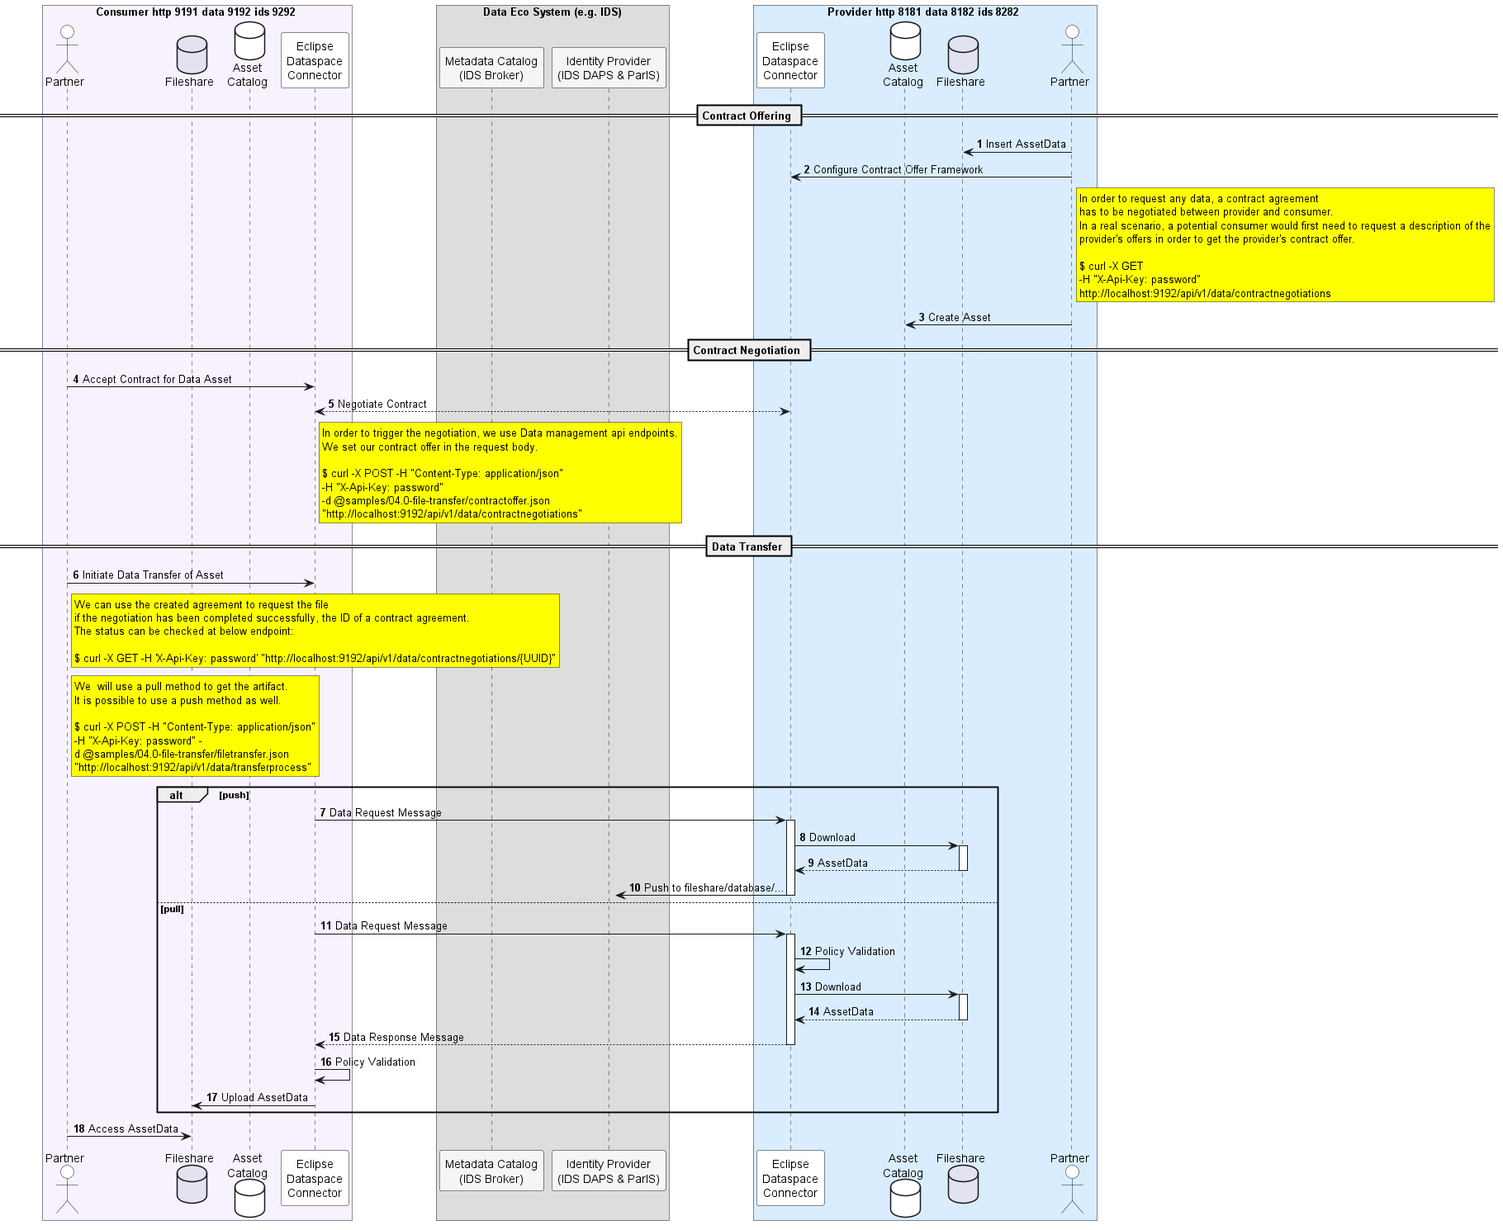
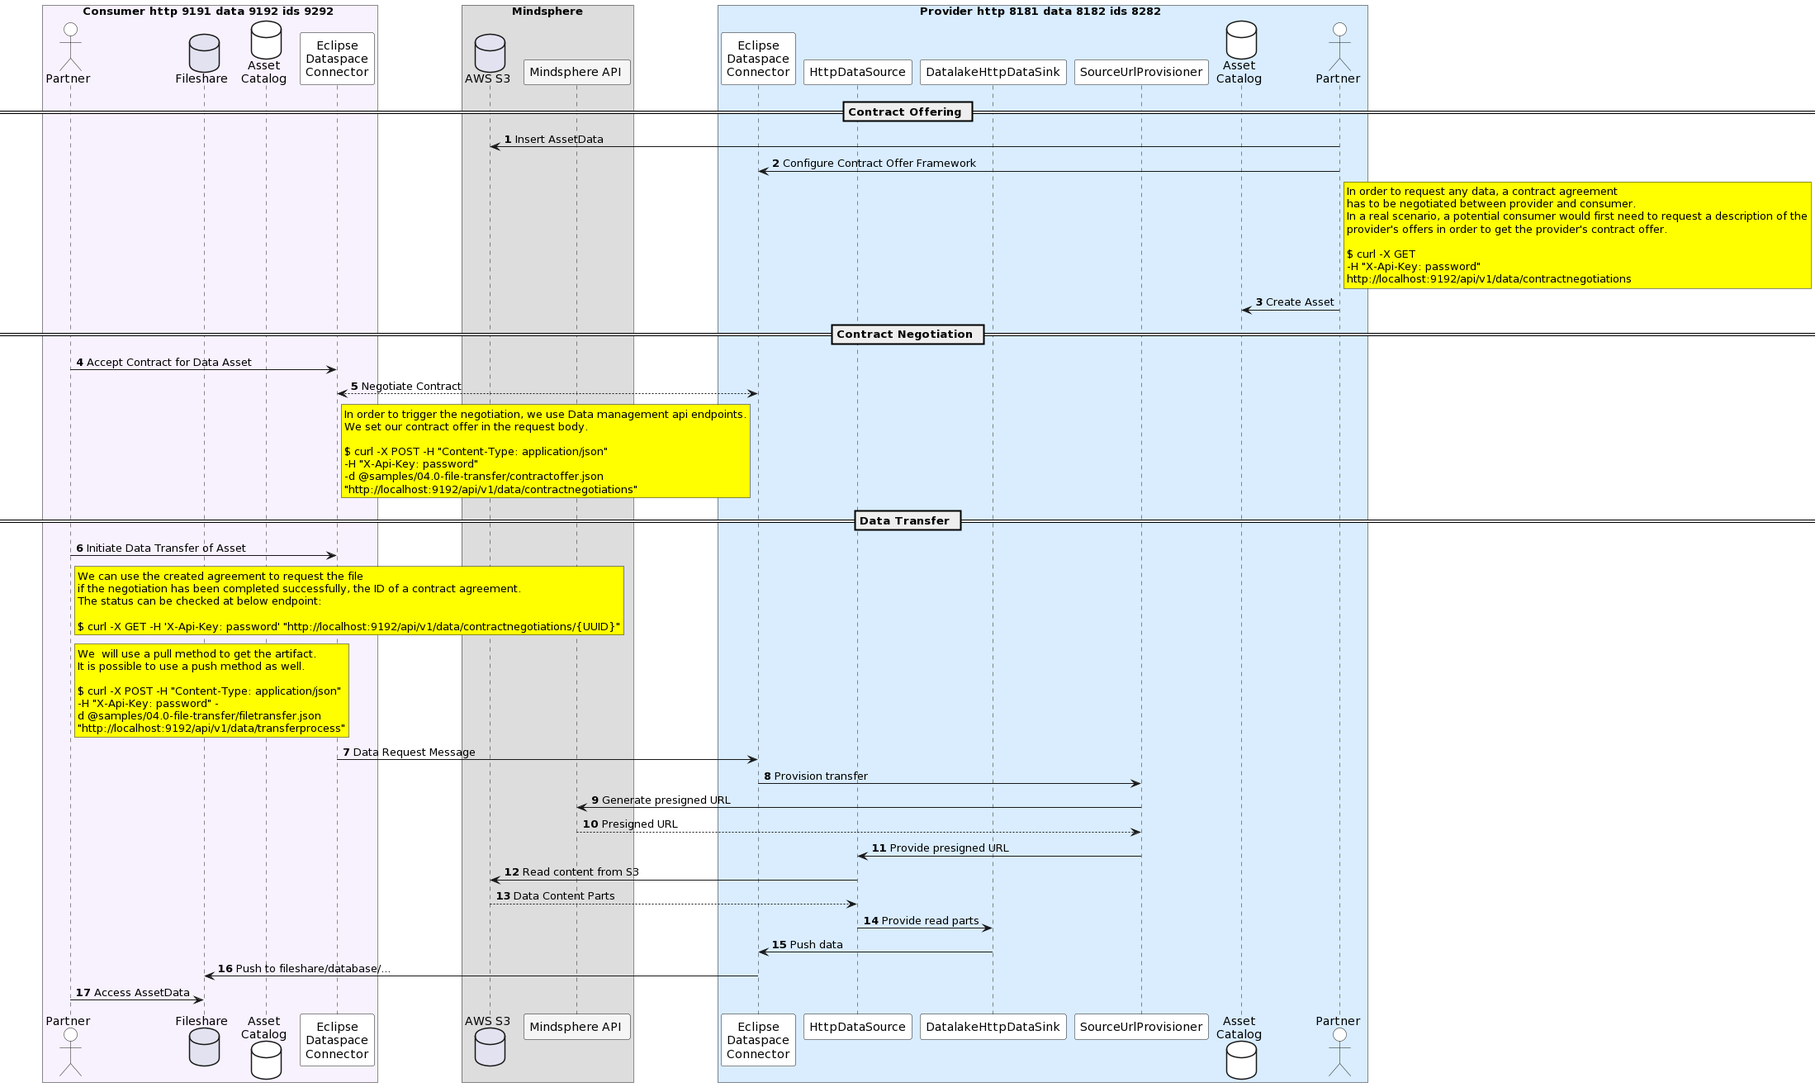
Generate presign url works

diff --git a/extensions/mindsphere/mindsphere-http/src/main/java/com/siemens/mindsphere/datalake/edc/http/DataLakeExtension.java b/extensions/mindsphere/mindsphere-http/src/main/java/com/siemens/mindsphere/datalake/edc/http/DataLakeExtension.java
@@ -14,9 +14,18 @@
 
 package com.siemens.mindsphere.datalake.edc.http;
 
+import com.siemens.mindsphere.datalake.edc.http.dataplane.DatalakeHttpDataSinkFactory;
+import com.siemens.mindsphere.datalake.edc.http.provision.DestinationUrlProvisionedResource;
 import com.siemens.mindsphere.datalake.edc.http.provision.DestinationUrlProvisioner;
-import com.siemens.mindsphere.datalake.edc.http.provision.DestinationUrlResourceDefinitionGenerator;
+import com.siemens.mindsphere.datalake.edc.http.provision.DestinationUrlResourceDefinition;
+import com.siemens.mindsphere.datalake.edc.http.provision.SourceUrlProvisioner;
+import com.siemens.mindsphere.datalake.edc.http.provision.SourceUrlProvisionedResource;
+import com.siemens.mindsphere.datalake.edc.http.provision.SourceUrlResourceDefinition;
+import com.siemens.mindsphere.datalake.edc.http.provision.SourceUrlResourceDefinitionGenerator;
 import net.jodah.failsafe.RetryPolicy;
+import okhttp3.OkHttpClient;
+import org.eclipse.dataspaceconnector.dataplane.spi.pipeline.DataTransferExecutorServiceContainer;
+import org.eclipse.dataspaceconnector.dataplane.spi.pipeline.PipelineService;
 import org.eclipse.dataspaceconnector.spi.EdcSetting;
 import org.eclipse.dataspaceconnector.spi.monitor.Monitor;
 import org.eclipse.dataspaceconnector.spi.system.Inject;
@@ -25,11 +34,10 @@ import org.eclipse.dataspaceconnector.spi.system.ServiceExtensionContext;
 import org.eclipse.dataspaceconnector.spi.transfer.inline.DataOperatorRegistry;
 import org.eclipse.dataspaceconnector.spi.transfer.provision.ProvisionManager;
 import org.eclipse.dataspaceconnector.spi.transfer.provision.ResourceManifestGenerator;
+import org.eclipse.dataspaceconnector.spi.types.TypeManager;
 import org.eclipse.dataspaceconnector.spi.types.domain.transfer.StatusCheckerRegistry;
 
 import java.net.MalformedURLException;
-import java.net.URI;
-import java.net.URISyntaxException;
 import java.net.URL;
 
 public class DataLakeExtension implements ServiceExtension {
@@ -39,43 +47,109 @@ public class DataLakeExtension implements ServiceExtension {
     @Inject
     private DataOperatorRegistry dataOperatorRegistry;
 
+    @Inject
+    private ResourceManifestGenerator manifestGenerator;
+
+    @Inject
+    private PipelineService pipelineService;
+
+    @Inject
+    private DataTransferExecutorServiceContainer executorContainer;
+
+    @Inject
+    private OkHttpClient httpClient;
+
+    @EdcSetting
+    private static final String TOKENMANAGEMENT_ADDRESS = "datalake.oauth.address";
+
+    @EdcSetting
+    private static final String TOKENMANAGEMENT_CLIENT_ID = "datalake.oauth.client.id";
+
+    @EdcSetting
+    private static final String TOKENMANAGEMENT_CLIENT_SECRET = "datalake.oauth.client.secret";
+
+    @EdcSetting
+    private static final String TOKENMANAGEMENT_CLIENT_APP_NAME = "datalake.oauth.client.app.name";
+
+    @EdcSetting
+    private static final String TOKENMANAGEMENT_CLIENT_APP_VERSION = "datalake.oauth.client.app.version";
+
+    @EdcSetting
+    private static final String APPLICATION_TENANT = "datalake.tenant";
+
+    @EdcSetting
+    private static final String DATALAKE_BASE_URL = "datalake.base.url.endpoint";
+
     @Override
     public void initialize(ServiceExtensionContext context) {
         Monitor monitor = context.getMonitor();
 
-        final String destinationUrl = context.getSetting(STUB_URL, "http://missing");
-
-        final URI uri;
-        final DataLakeClient dataLakeClient;
         try {
-            uri = new URL(destinationUrl).toURI();
-            dataLakeClient = new DataLakeClientImpl(uri.toURL());
-        } catch (MalformedURLException | URISyntaxException e) {
-            throw new IllegalArgumentException("Bad destination url given", e);
+            final String tokenmanagementClientId = context.getSetting(TOKENMANAGEMENT_CLIENT_ID, "");
+            final String tokenmanagementClientSecret = context.getSetting(TOKENMANAGEMENT_CLIENT_SECRET, "");
+            final String tokenmanagementClientAppName = context.getSetting(TOKENMANAGEMENT_CLIENT_APP_NAME, "");
+            final String tokenmanagementClientAppVersion = context.getSetting(TOKENMANAGEMENT_CLIENT_APP_VERSION, "");
+            final String tokenmanagementAddress = context.getSetting(TOKENMANAGEMENT_ADDRESS, "");
+            final String dataLakeAddress = context.getSetting(DATALAKE_BASE_URL, "");
+
+            final String applicationTenant = context.getSetting(APPLICATION_TENANT, "presdev");
+
+            monitor.debug("datalake.oauth.clientId=" + tokenmanagementClientId.substring(0, 5));
+            monitor.debug("datalake.oauth.clientSecret=" + tokenmanagementClientSecret.substring(0, 5));
+            monitor.debug("datalake.tenant=" + applicationTenant);
+            monitor.debug("datalake.address=" + dataLakeAddress);
+
+            final URL url = new URL(dataLakeAddress);
+
+            final OauthClientDetails oauthClientDetails = new OauthClientDetails(tokenmanagementClientId, tokenmanagementClientSecret,
+                    tokenmanagementClientAppName, tokenmanagementClientAppVersion, applicationTenant, new URL(tokenmanagementAddress));
+            final DataLakeClientImpl clientImpl = new DataLakeClientImpl(oauthClientDetails, url);
+
+            // create Data Lake Reader
+            final DataLakeReader dataLakeReader = new DataLakeReader(clientImpl, monitor);
+            // register Data Lake Reader
+            dataOperatorRegistry.registerReader(dataLakeReader);
+
+
+            //MUST BE 1 partition - we can handle only one part at a time
+            var sinkFactoryHttp = new DatalakeHttpDataSinkFactory(httpClient, executorContainer.getExecutorService(), 1, monitor);
+            pipelineService.registerFactory(sinkFactoryHttp);
+
+            registerProvisioners(context, monitor, clientImpl);
+            registerProvisionDefinitionsGenerators(context, monitor);
+            registerProvisionTypes(context.getTypeManager());
+
+            // register status checker
+            var statusCheckerReg = context.getService(StatusCheckerRegistry.class);
+            //statusCheckerReg.register(HttpSchema.TYPE, new DataLakeStatusChecker(dataLakeClient, retryPolicy, monitor));
+        } catch (MalformedURLException e) {
+            monitor.severe("Failed to register datalake source url provisioning due to exception ", e);
         }
+    }
 
+    private void registerProvisionDefinitionsGenerators(ServiceExtensionContext context, Monitor monitor) {
+        // register the datalake resource definition generator
+        manifestGenerator.registerGenerator(new SourceUrlResourceDefinitionGenerator(monitor, context));
 
-        // create Data Lake Reader
-        final DataLakeReader dataLakeReader = new DataLakeReader(dataLakeClient, monitor);
-        // register Data Lake Reader
-        dataOperatorRegistry.registerReader(dataLakeReader);
+        // register the datalake resource definition generator
+        manifestGenerator.registerGenerator(new SourceUrlResourceDefinitionGenerator(monitor, context));
+    }
 
-        // register provisioner
-        @SuppressWarnings("unchecked") var retryPolicy = (RetryPolicy<Object>) context.getService(RetryPolicy.class);
+    private void registerProvisioners(ServiceExtensionContext context, Monitor monitor, DataLakeClientImpl clientImpl) {
+        @SuppressWarnings("unchecked") var retryPolicy = context.getService(RetryPolicy.class);
         var provisionManager = context.getService(ProvisionManager.class);
-        final DestinationUrlProvisioner destinationUrlProvisioner = new DestinationUrlProvisioner(dataLakeClient,
-                monitor,
-                retryPolicy);
+
+        final DestinationUrlProvisioner destinationUrlProvisioner = new DestinationUrlProvisioner(clientImpl, monitor, retryPolicy);
         provisionManager.register(destinationUrlProvisioner);
 
-        // register the URL resource definition generator
-        var manifestGenerator = context.getService(ResourceManifestGenerator.class);
-        manifestGenerator.registerGenerator(new DestinationUrlResourceDefinitionGenerator(monitor));
+        final SourceUrlProvisioner sourceUrlProvisioner = new SourceUrlProvisioner(clientImpl, context, retryPolicy);
+        provisionManager.register(sourceUrlProvisioner);
+    }
 
-        // register status checker
-        var statusCheckerReg = context.getService(StatusCheckerRegistry.class);
-        //statusCheckerReg.register(HttpSchema.TYPE, new DataLakeStatusChecker(dataLakeClient, retryPolicy, monitor));
-
+    private void registerProvisionTypes(TypeManager typeManager) {
+        typeManager.registerTypes(
+                SourceUrlProvisionedResource.class, SourceUrlResourceDefinition.class,
+                DestinationUrlProvisionedResource.class, DestinationUrlResourceDefinition.class);
     }
 
     @Override

diff --git a/samples/other/file-transfer-http-to-http/provider/src/main/java/com/siemens/mindsphere/SourceUrlExtension.java b/samples/other/file-transfer-http-to-http/provider/src/main/java/com/siemens/mindsphere/SourceUrlExtension.java
@@ -14,15 +14,7 @@
 package com.siemens.mindsphere;
 
 
-import com.siemens.mindsphere.datalake.edc.http.DataLakeClientImpl;
-import com.siemens.mindsphere.datalake.edc.http.OauthClientDetails;
-import com.siemens.mindsphere.datalake.edc.http.dataplane.DatalakeHttpDataSinkFactory;
-import com.siemens.mindsphere.datalake.edc.http.provision.DestinationUrlProvisioner;
 import com.siemens.mindsphere.datalake.edc.http.provision.MindsphereSchema;
-import com.siemens.mindsphere.datalake.edc.http.provision.SourceUrlProvisionedResource;
-import com.siemens.mindsphere.datalake.edc.http.provision.SourceUrlResourceDefinition;
-import com.siemens.mindsphere.datalake.edc.http.provision.SourceUrlResourceDefinitionGenerator;
-import net.jodah.failsafe.RetryPolicy;
 import okhttp3.OkHttpClient;
 import org.eclipse.dataspaceconnector.dataloading.AssetLoader;
 import org.eclipse.dataspaceconnector.dataplane.spi.pipeline.DataTransferExecutorServiceContainer;
@@ -38,53 +30,16 @@ import org.eclipse.dataspaceconnector.spi.policy.store.PolicyStore;
 import org.eclipse.dataspaceconnector.spi.system.Inject;
 import org.eclipse.dataspaceconnector.spi.system.ServiceExtension;
 import org.eclipse.dataspaceconnector.spi.system.ServiceExtensionContext;
-import org.eclipse.dataspaceconnector.spi.transfer.provision.ProvisionManager;
 import org.eclipse.dataspaceconnector.spi.transfer.provision.ResourceManifestGenerator;
-import org.eclipse.dataspaceconnector.spi.types.TypeManager;
 import org.eclipse.dataspaceconnector.spi.types.domain.DataAddress;
 import org.eclipse.dataspaceconnector.spi.types.domain.asset.Asset;
 import org.eclipse.dataspaceconnector.spi.types.domain.contract.offer.ContractDefinition;
 import org.eclipse.dataspaceconnector.spi.types.domain.http.HttpDataAddressSchema;
 
-import java.net.URL;
-
 /**
  * It is possible to be called from outside without any JWT token passed
  */
 public class SourceUrlExtension implements ServiceExtension {
-
-    @Inject
-    private ResourceManifestGenerator manifestGenerator;
-
-    @Inject
-    private PipelineService pipelineService;
-
-    @Inject
-    private DataTransferExecutorServiceContainer executorContainer;
-
-    @Inject
-    private OkHttpClient httpClient;
-
-    @EdcSetting
-    private static final String TOKENMANAGEMENT_ADDRESS = "datalake.oauth.address";
-
-    @EdcSetting
-    private static final String TOKENMANAGEMENT_CLIENT_ID = "datalake.oauth.client.id";
-
-    @EdcSetting
-    private static final String TOKENMANAGEMENT_CLIENT_SECRET = "datalake.oauth.client.secret";
-
-    @EdcSetting
-    private static final String TOKENMANAGEMENT_CLIENT_APP_NAME = "datalake.oauth.client.app.name";
-
-    @EdcSetting
-    private static final String TOKENMANAGEMENT_CLIENT_APP_VERSION = "datalake.oauth.client.app.version";
-
-    @EdcSetting
-    private static final String APPLICATION_TENANT = "datalake.tenant";
-
-    @EdcSetting
-    private static final String DATALAKE_BASE_URL = "datalake.base.url.endpoint";
 
     @Inject
     private PolicyStore policyStore;
@@ -102,47 +57,6 @@ public class SourceUrlExtension implements ServiceExtension {
 
     @Override
     public void initialize(ServiceExtensionContext context) {
-        Monitor monitor = context.getMonitor();
-
-        try {
-            final String tokenmanagementClientId = context.getSetting(TOKENMANAGEMENT_CLIENT_ID, "");
-            final String tokenmanagementClientSecret = context.getSetting(TOKENMANAGEMENT_CLIENT_SECRET, "");
-            final String tokenmanagementClientAppName = context.getSetting(TOKENMANAGEMENT_CLIENT_APP_NAME, "");
-            final String tokenmanagementClientAppVersion = context.getSetting(TOKENMANAGEMENT_CLIENT_APP_VERSION, "");
-            final String tokenmanagementAddress = context.getSetting(TOKENMANAGEMENT_ADDRESS, "");
-            final String dataLakeAddress = context.getSetting(DATALAKE_BASE_URL, "");
-
-            final String applicationTenant = context.getSetting(APPLICATION_TENANT, "presdev");
-
-            monitor.debug("datalake.oauth.clientId=" + tokenmanagementClientId.substring(0, 5));
-            monitor.debug("datalake.oauth.clientSecret=" + tokenmanagementClientSecret.substring(0, 5));
-            monitor.debug("datalake.tenant=" + applicationTenant);
-            monitor.debug("datalake.address=" + dataLakeAddress);
-
-            final URL url = new URL(dataLakeAddress);
-
-            final OauthClientDetails oauthClientDetails = new OauthClientDetails(tokenmanagementClientId, tokenmanagementClientSecret,
-                    tokenmanagementClientAppName, tokenmanagementClientAppVersion, applicationTenant, new URL(tokenmanagementAddress));
-            final DataLakeClientImpl clientImpl = new DataLakeClientImpl(oauthClientDetails, url);
-
-            @SuppressWarnings("unchecked") var retryPolicy = context.getService(RetryPolicy.class);
-            var provisionManager = context.getService(ProvisionManager.class);
-            final DestinationUrlProvisioner sourceUrlProvisioner = new DestinationUrlProvisioner(clientImpl, monitor, retryPolicy);
-            provisionManager.register(sourceUrlProvisioner);
-
-            //MUST BE 1 partition - we can handle only one part at a time
-            var sinkFactoryHttp = new DatalakeHttpDataSinkFactory(httpClient, executorContainer.getExecutorService(), 1, monitor);
-            pipelineService.registerFactory(sinkFactoryHttp);
-
-            // register the datalake resource definition generator
-            manifestGenerator.registerGenerator(new SourceUrlResourceDefinitionGenerator(monitor, context));
-
-            // register provision specific classes
-            registerTypes(context.getTypeManager());
-        } catch (Exception e) {
-            monitor.severe("Failed to register datalake source url provisioning due to exception ", e);
-        }
-
         addTestData(context);
     }
 
@@ -150,11 +64,11 @@ public class SourceUrlExtension implements ServiceExtension {
      * Added only for testing
      * Use the below curl commands to test
      * <p>
-     * curl -X POST -H "Content-Type: application/json" -H "X-Api-Key: password" -d @samples/other/file-transfer-http-to-http/datalakecontractoffer.json "http://localhost:9192/api/v1/data/contractnegotiations"
+     * curl -X POST -H "Content-Type: application/json" -H "X-Api-Key: passwordConsumer" -d @samples/other/file-transfer-http-to-http/datalakecontractoffer.json "http://localhost:9192/api/v1/data/contractnegotiations"
      * <p>
-     * curl -X GET -H "Content-Type: application/json" -H "X-Api-Key: password"  "http://localhost:9192/api/v1/data/contractnegotiations"
+     * curl -X GET -H "Content-Type: application/json" -H "X-Api-Key: passwordConsumer"  "http://localhost:9192/api/v1/data/contractnegotiations"
      * <p>
-     * curl -X POST -H "Content-Type: application/json" -H "X-Api-Key: password" -d @samples/other/file-transfer-http-to-http/datalaketransfer.json "http://localhost:9192/api/v1/data/transferprocess"
+     * curl -X POST -H "Content-Type: application/json" -H "X-Api-Key: passwordConsumer" -d @samples/other/file-transfer-http-to-http/datalaketransfer.json "http://localhost:9192/api/v1/data/transferprocess"
      */
     private void addTestData(ServiceExtensionContext context) {
         var policy = createPolicy();
@@ -167,10 +81,6 @@ public class SourceUrlExtension implements ServiceExtension {
     @Override
     public String name() {
         return "Datalake Transfer With Provisioning";
-    }
-
-    private void registerTypes(TypeManager typeManager) {
-        typeManager.registerTypes(SourceUrlProvisionedResource.class, SourceUrlResourceDefinition.class);
     }
 
     private Policy createPolicy() {

diff --git a/extensions/mindsphere/mindsphere-http/src/main/java/com/siemens/mindsphere/datalake/edc/http/dataplane/DatalakeHttpDataSink.java b/extensions/mindsphere/mindsphere-http/src/main/java/com/siemens/mindsphere/datalake/edc/http/dataplane/DatalakeHttpDataSink.java
@@ -48,7 +48,7 @@ public class DatalakeHttpDataSink extends ParallelSink {
                 requestBuilder.header(authKey, authCode);
             }
 
-            monitor.debug(format("Transferring  %s  to endpoint %s ", parts.toString(), endpoint));
+            monitor.debug(() -> format("Transferring  %s  to endpoint %s ", part.name(), endpoint));
 
             RequestBody body;
             try {
@@ -68,7 +68,10 @@ public class DatalakeHttpDataSink extends ParallelSink {
                 monitor.severe(format("Error writing HTTP data %s to endpoint %s for request: %s", part.name(), endpoint, request), e);
                 return StatusResult.failure(ERROR_RETRY, "Error writing data");
             }
+
+            monitor.debug(() -> format("Transferring  %s  to endpoint %s done", part.name(), endpoint));
         }
+
         return StatusResult.success();
     }
 

diff --git a/samples/other/file-transfer-http-to-http/docs/PresignedURL.md b/samples/other/file-transfer-http-to-http/docs/PresignedURL.md
@@ -64,6 +64,54 @@ Process DEPROVISIONING transfer
 
     
 ## Sample call
+
+Note that [samples/other/file-transfer-http-to-http/provider/src/main/java/com/siemens/mindsphere/SourceUrlExtension.java](../provider/src/main/java/com/siemens/mindsphere/SourceUrlExtension.java) contains:
+* Sample policy
+* Sample asset 
+    * datalakepath equal to data/ten=castidev/data.csv
+    * type HttpData so that it is handled by [extensions/data-plane/data-plane-http/src/main/java/org/eclipse/dataspaceconnector/dataplane/http/pipeline/HttpDataSourceFactory.java](../../../../extensions/data-plane/data-plane-http/src/main/java/org/eclipse/dataspaceconnector/dataplane/http/pipeline/HttpDataSourceFactory.java)
+* Sample contract definition 
+    * id 9
+    * selector on the asset above called data.csv
+
+The [extensions/mindsphere/mindsphere-http/src/main/java/com/siemens/mindsphere/datalake/edc/http/dataplane/DatalakeHttpDataSinkFactory.java](../../../../extensions/mindsphere/mindsphere-http/src/main/java/com/siemens/mindsphere/datalake/edc/http/dataplane/DatalakeHttpDataSinkFactory.java) datalake specific dataplane sink is used to flush the data to Mindsphere integration datalake.
+It is selected by type "mindsphere", which gets set inside the [com.siemens.mindsphere.datalake.edc.http.provision.SourceUrlProvisioner.provision](../../../../extensions/mindsphere/mindsphere-http/src/main/java/com/siemens/mindsphere/datalake/edc/http/provision/SourceUrlProvisioner.java) method.
+
+The call flow is the following:
+* call consumer to negociate a contract
+    * ```curl -X POST -H "Content-Type: application/json" -H "X-Api-Key: passwordConsumer" -d @samples/other/file-transfer-http-to-http/datalakecontractoffer.json "http://localhost:9192/api/v1/data/contractnegotiations"```
+* call consumer to find the newly negociated contract agreement id (e.g. [{"contractAgreementId":"9:1bd6da05-bb4c-43e8-ba37-dd8854b95c6b","counterPartyAddress":"http://localhost:8282/api/v1/ids/data","errorDetail":null)
+    * ```curl -X GET -H "Content-Type: application/json" -H "X-Api-Key: passwordConsumer"  "http://localhost:9192/api/v1/data/contractnegotiations"```
+* modify [samples/other/file-transfer-http-to-http/datalaketransfer.json](../datalaketransfer.json) by replacing existing contractId with the newly created one
+* call consumer to trigger transfer process
+    * ```curl -X POST -H "Content-Type: application/json" -H "X-Api-Key: passwordConsumer" -d @samples/other/file-transfer-http-to-http/datalaketransfer.json "http://localhost:9192/api/v1/data/transferprocess"```
+    
+---
+**NOTE**
+We tested using a destination on the same mindsphere tenant with another name. We generated the destination url using the below code (put inside [extensions/mindsphere/mindsphere-http/src/main/java/com/siemens/mindsphere/datalake/edc/http/DataLakeClientImpl.java](../../../../extensions/mindsphere/mindsphere-http/src/main/java/com/siemens/mindsphere/datalake/edc/http/DataLakeClientImpl.java)):
+```java
+    public static void main(String[] args) throws MalformedURLException, DataLakeException {
+        final String tokenmanagementClientId = "REPLACE ME";
+        final String tokenmanagementClientSecret = "REPLACE ME";
+        final String tokenmanagementClientAppName = "REPLACE ME";
+        final String tokenmanagementClientAppVersion = "v1.0.0";
+        final String tokenmanagementAddress = "https://gateway.eu1.mindsphere.io/api/technicaltokenmanager/v3/oauth/token";
+        final String datalakePath = "data/ten=castidev/data_dataplane1.csv";
+        final String dataLakeAddress = "https://gateway.eu1.mindsphere.io/api/datalake/v3";
+
+        final String applicationTenant = "castiop";
+
+        final URL url = new URL(dataLakeAddress);
+
+        final OauthClientDetails oauthClientDetails = new OauthClientDetails(tokenmanagementClientId, tokenmanagementClientSecret,
+                tokenmanagementClientAppName, tokenmanagementClientAppVersion, applicationTenant, new URL(tokenmanagementAddress));
+        final DataLakeClientImpl clientImpl = new DataLakeClientImpl(oauthClientDetails, url);
+        final URL createdUrl = clientImpl.getPresignedUploadUrl(datalakePath);
+
+        System.out.println("Created presigned url: " + createdUrl.toString());
+    }
+```
+---...
     
 ![File Transfer HTTP MVP](mvp.png) 
 
